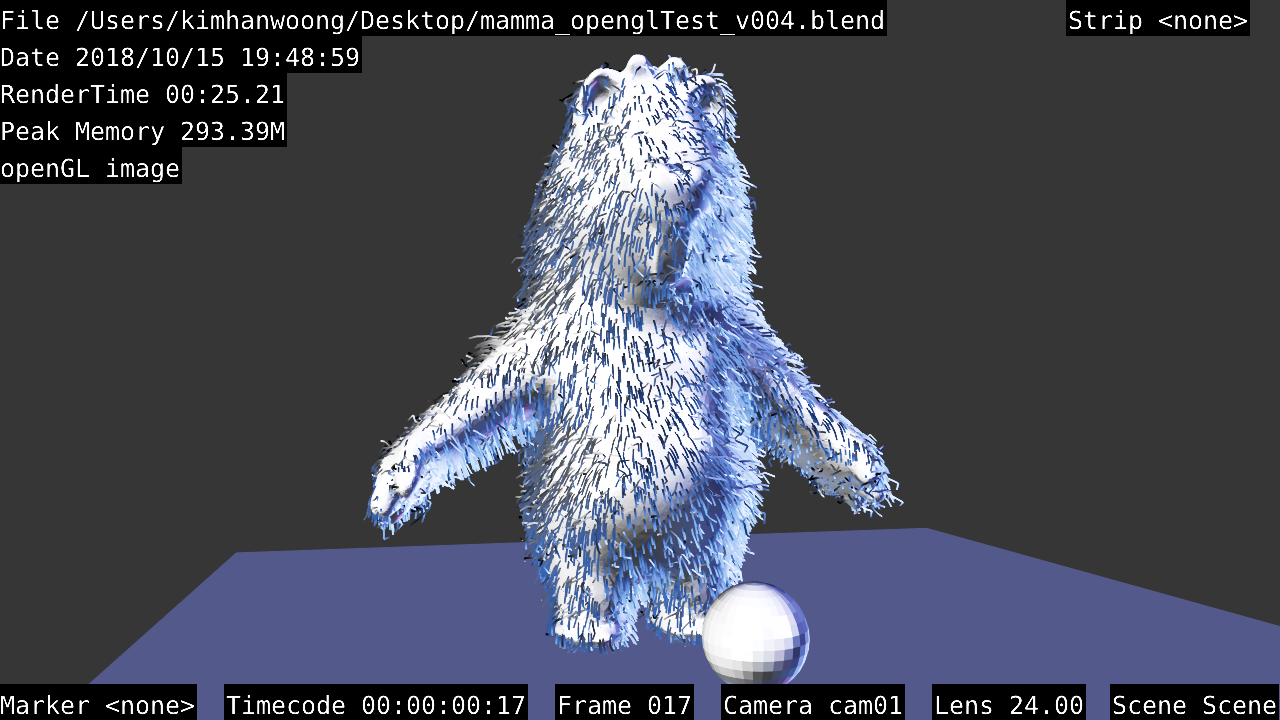
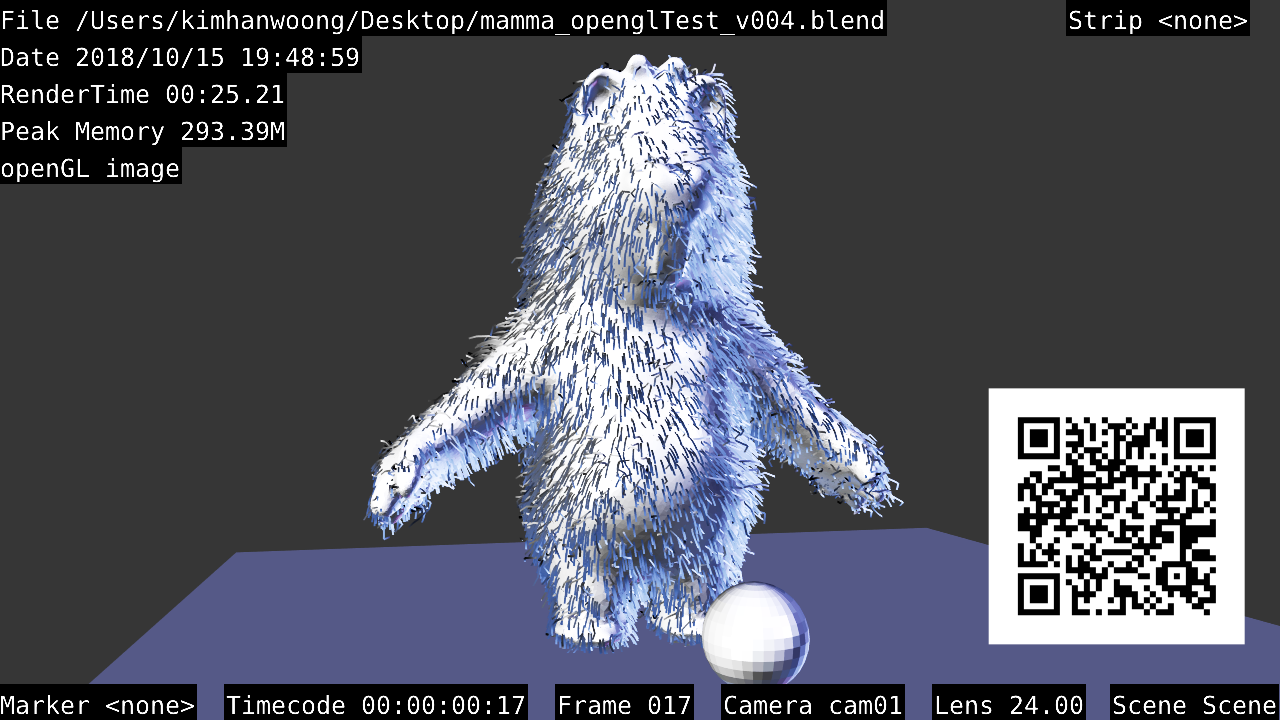
qr코드 추가함

Changed region(s): [[0.75, 0.5194, 1.0, 0.9167]]

diff --git a/img2str.go b/img2str.go
@@ -3,10 +3,13 @@ package main
 import (
 	"fmt"
 	"github.com/otiai10/gosseract"
+	"github.com/tuotoo/qrcode"
 	"log"
+	"os"
 )
 
 func main() {
+	// text
 	client := gosseract.NewClient()
 	defer client.Close()
 	client.SetImage("blender_opengl_test.png")
@@ -15,4 +18,17 @@ func main() {
 		log.Fatal(err)
 	}
 	fmt.Println(text)
+	//
+	fi, err := os.Open("blender_opengl_test.png")
+	if err != nil {
+		log.Println(err.Error())
+		return
+	}
+	defer fi.Close()
+	qrmatrix, err := qrcode.Decode(fi)
+	if err != nil {
+		log.Println(err.Error())
+		return
+	}
+	log.Println(qrmatrix.Content)
 }

diff --git a/README.md b/README.md
@@ -1,4 +1,4 @@
-# img2str
+# img2info
 tesseract 테스트 리포지터리입니다. 아직까지 좋은 결과가 나오진 않습니다.
 단순한 이미지에는 사용할 수 있으며, 좋은 결과를 위해서는 
 tesseract4를 기다려봐야할듯합니다.
@@ -25,9 +25,10 @@ openGL image
 
 
 
-)
+1’
 
 Marker <none> Timecode 00:00:00:17 Frame 017 Camera cam01 Lens 24.00 Scene Scene
+2018/10/15 21:07:47 https://github.com/lazypic/mamma
 ```
 #### Gosseract Install
 ```
@@ -38,3 +39,5 @@ $ go get -t github.com/otiai10/gosseract
 - https://github.com/tesseract-ocr/tesseract
 - https://github.com/tesseract-ocr/tesseract/wiki
 - https://github.com/otiai10/gosseract
+- qrcode encoding : https://github.com/skip2/go-qrcode
+- qrcode decoding : https://github.com/tuotoo/qrcode
